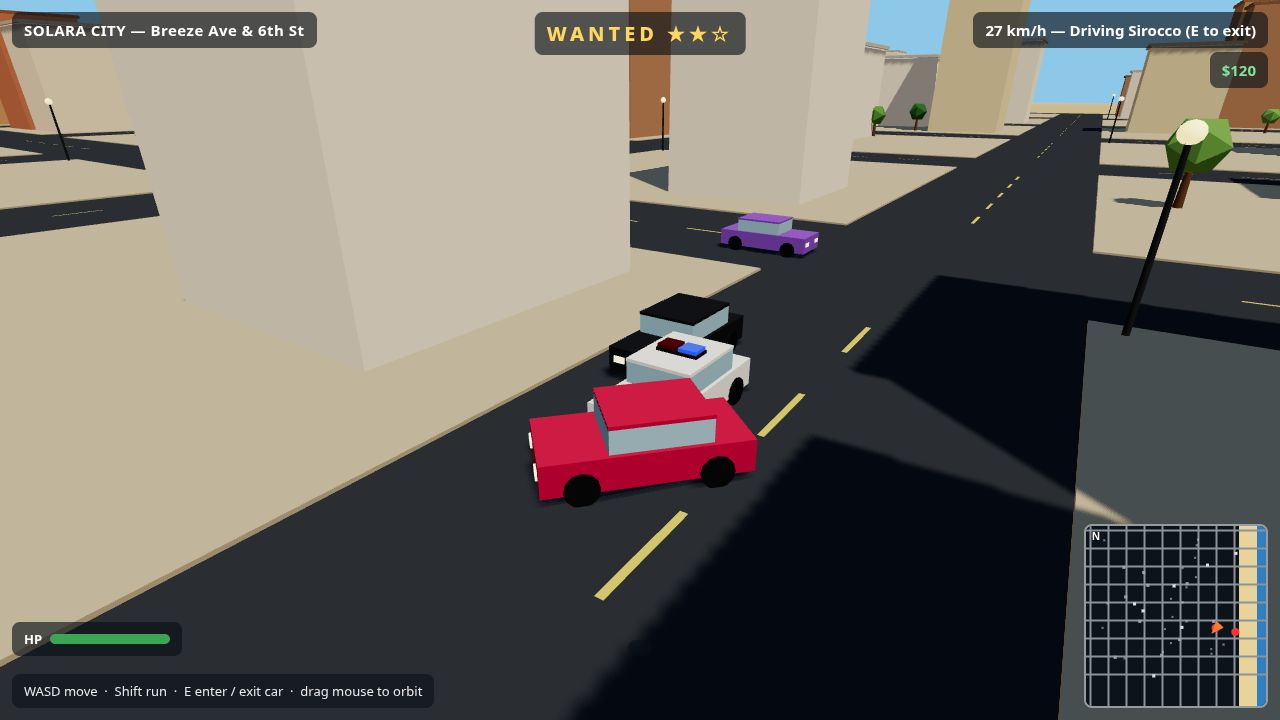
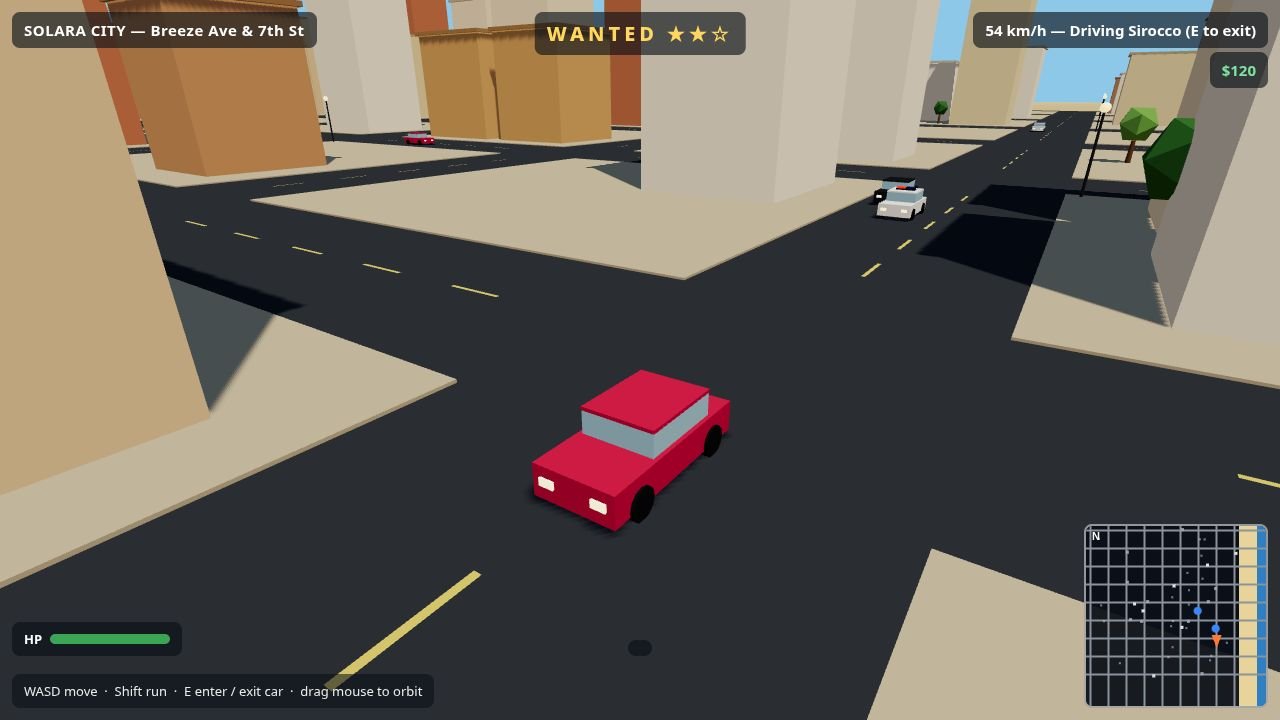
Block B: police close in on a stopped player; shot route clips Citra and drives past
- Police: when the player is stopped, slow down as we approach so we
  arrive next to them (inside the catch zone) instead of driving past
  in the next lane and never staying close long enough to catch.
  Without this the police circled a stopped player for 40 s and the
  heat decayed before any catch (playtest caught-phase timeout).
- Chase shot: the ram waypoint now clips the Citra's east side and the
  route advances on the ram (wanted 2), not only on arrival — aiming
  AT the Citra wedged the car for 9 s and the police (who now close
  in) caught it mid-shot. Phase 3 is a 2 s cruise south (~14 m/s).
  1-chase.jpg re-captured: player 54 km/h, wanted 2, police in
  pursuit, sharp+PIL verified, 1280x720.

diff --git a/game/src/shots.js b/game/src/shots.js
@@ -88,15 +88,20 @@ function runChaseShot(game) {
   if (player.mode !== 'car') throw new Error('chase shot: steal failed');
 
   // Phase 2: waypoint drive (real driving, real rules) — north on Marina
-  // Ave to 42nd St, east along it to Coral Ave, south into the parked
+  // Ave to 42nd St, east along it to Coral Ave, south past the parked
   // Citra. The Citra sits 1.6 m off the southbound lane, so the player
   // cannot pass without hitting it: a real ram, real heat, wanted 2.
   // The route is short (the ram lands ~7 s after the steal), so heat has
-  // not decayed below the level-2 threshold yet.
+  // not decayed below the level-2 threshold yet. The third waypoint
+  // clips the Citra's east side (x = 136, 1.8 m off its centre) and the
+  // fourth pulls south past it: aiming AT the Citra wedged the car
+  // against it for 9 s (and the police, who now correctly close in on a
+  // stopped player, caught it mid-shot).
   const waypoints = [
     { x: 45.8, z: 42 },
     { x: 134.2, z: 42 },
-    { x: 134.2, z: 58.5 },
+    { x: 136, z: 58.5 },
+    { x: 138, z: 70 },
   ];
   let wp = 0;
   const wrapAngle = (a) => {
@@ -109,7 +114,12 @@ function runChaseShot(game) {
     const dx = target.x - player.pos.x;
     const dz = target.z - player.pos.z;
     const dist = Math.hypot(dx, dz);
-    if (dist < 3) { wp += 1; continue; }
+    // Advance on arrival — or on the ram: once wanted hits 2 the car
+    // has clipped the Citra, and the waypoint (on the Citra's east edge)
+    // sits inside its collision zone, so the car can never get within
+    // 3 m of it and would wedge there until the police catch it. Move
+    // past the Citra instead.
+    if (dist < 3 || (wp === 2 && police.level >= 2)) { wp += 1; continue; }
     const desired = Math.atan2(dx, dz);
     const err = wrapAngle(desired - player.heading);
     const steer = err > 0.05 ? -1 : err < -0.05 ? 1 : 0;
@@ -140,21 +150,19 @@ function runChaseShot(game) {
   }
   if (police.level < 2) throw new Error(`chase shot: ram did not raise wanted to 2 (level ${police.level})`);
 
-  // Phase 3: keep driving south past the rammed Citra for 1 s, then the
-  // frame. The east-biased target (x = 143 while still beside the Citra)
-  // steers the car around the Citra's east side instead of pushing
-  // through it; once past, it holds the avenue centre. 60 steps only:
-  // a stopped traffic car waits further south on this avenue, and the
-  // player rear-ends it around step 90 — the frame is taken while the
-  // player is still moving and the nearest police car is right on its
-  // tail.
-  for (let i = 0; i < 60; i++) {
+  // Phase 3: cruise south for 2 s, then the frame. Pulsed throttle holds
+  // ~14 m/s (slower than the 27 m/s police top speed, so the pursuit
+  // closes from ~30 m to ~5-10 m behind — right on the player's tail).
+  // The east-biased target (x = 143 while still beside the Citra) steers
+  // the car around the Citra's east side; once past, it holds the
+  // avenue centre.
+  for (let i = 0; i < 120; i++) {
     const tx = player.pos.z < 64 ? 143 : 138;
     const tz = player.pos.z + 40;
     const desired = Math.atan2(tx - player.pos.x, tz - player.pos.z);
     const err = wrapAngle(desired - player.heading);
     const steer = err > 0.05 ? -1 : err < -0.05 ? 1 : 0;
-    let throttle = 1;
+    let throttle = (i % 5 < 3) ? 1 : 0;
     const fx = Math.sin(player.heading);
     const fz = Math.cos(player.heading);
     for (const t of traffic.getState()) {

diff --git a/game/src/police.js b/game/src/police.js
@@ -239,6 +239,14 @@ export class Police {
         if (distToPlayer < 5.5) target = 0;
         else if (distToPlayer < 10) target = Math.min(target, playerSpeed);
       }
+      // Close in on a stopped player: slow down as we approach so we
+      // arrive next to them (inside the catch zone) instead of driving
+      // past at full speed in the next lane and never staying close long
+      // enough to catch. Without this the police circled a stopped
+      // player for 40 s and the heat decayed before any catch.
+      if (player.mode === 'car' && playerSpeed <= 2 && distToPlayer < 20) {
+        target = Math.min(target, Math.max(0, (distToPlayer - 4) * 0.5));
+      }
 
       // Slow for the car ahead in the same lane.
       const fx = car.axis === 'z' ? 0 : car.dir;
